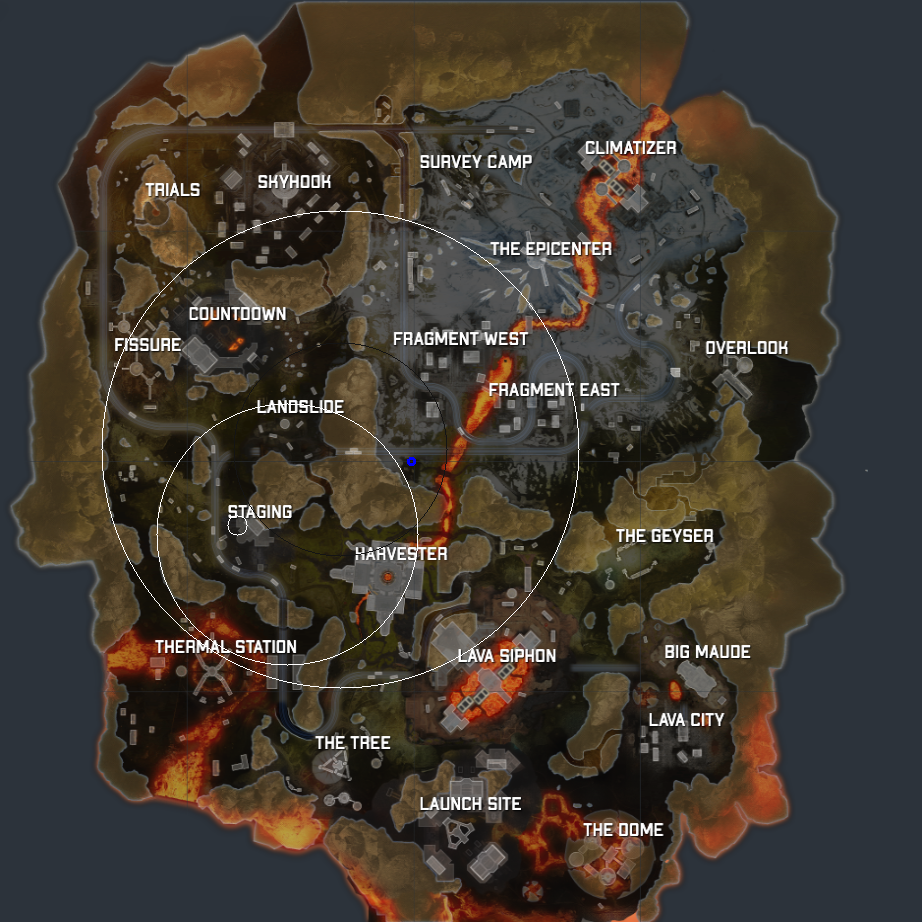
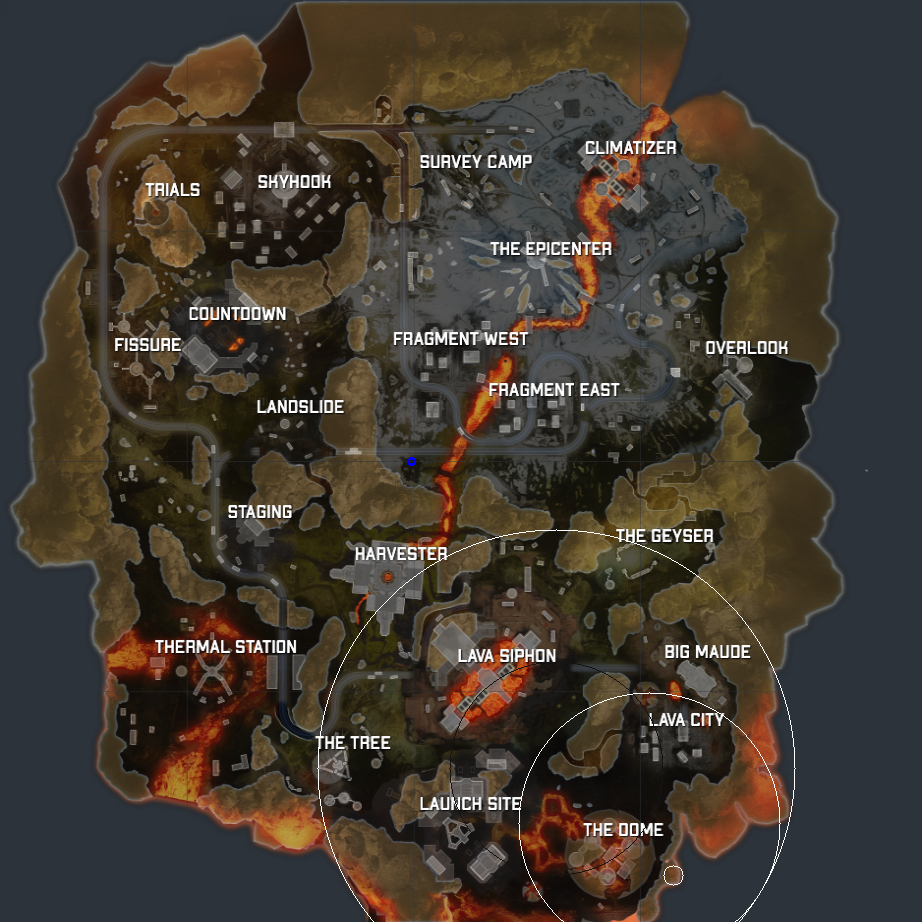
adjusted ring2 skew

diff --git a/zone.py b/zone.py
@@ -17,14 +17,20 @@ ppm = None
 
 def click_event(event, x, y, flags, params):
     global img
-    if event == cv2.EVENT_LBUTTONDOWN and len(arr) < 2:
-        arr.append([x,y])
+    if event == cv2.EVENT_LBUTTONDOWN:
         
-        if len(arr) == 1:
+       
+        
+        if len(arr) == 0:
+            arr.append([x,y])
+
             # print(int(rings[0] * ppm/2))
             img = cv2.circle(img, (x, y), int(rings[0] * ppm), (255, 255, 255), 1)
             img = cv2.circle(img, (x, y), int(((rings[0] - rings[1]))*ppm), (20, 20, 20), 1)
-        if (len(arr) == 2):
+            cv2.imshow('image', img)
+        elif (len(arr) == 1):
+            arr.append([x,y])
+
             img = cv2.circle(img, (x, y), int(rings[1] * ppm), (255, 255, 255), 1)
             # print(int(rings[1] * ppm/2))
             print(arr)
@@ -34,7 +40,10 @@ def click_event(event, x, y, flags, params):
             y3 = int(r3_pred[1])
             img = cv2.circle(img, (x3, y3), 10, (255, 255, 255), 1)
             cv2.imwrite("WE-LAN-4-26-G1_Test.png", img)
-        cv2.imshow('image', img)
+            cv2.imshow('image', img)
+        if (len(arr) >= 2):
+            print(str(x) + " " + str(y))
+            # print("len: " + str(len(arr)))
 
 def calc_zones(x1, y1, x2, y2):
     # print(x1)
@@ -59,8 +68,15 @@ def calc_zones(x1, y1, x2, y2):
     V1 = V1 * (1 - (v1_norm/rad_norm))
 
     ring_2_center = np.array([x2,y2])
+    ring_2_rad = rings[1] * ppm
     V2 = ring_2_center - ring_1_center
-    V3 = V1 + V2 + ring_1_center
+    V3 = None
+    
+    dist2 = np.linalg.norm(map_center - ring_2_center)
+    if (dist2 <= ring_2_rad):
+        V3 = V1 + V2 + map_center
+    else:
+        V3 = V1 + V2 + ring_1_center
     print(ring_1_center)
     print(ring_2_center)
     print(V1)
